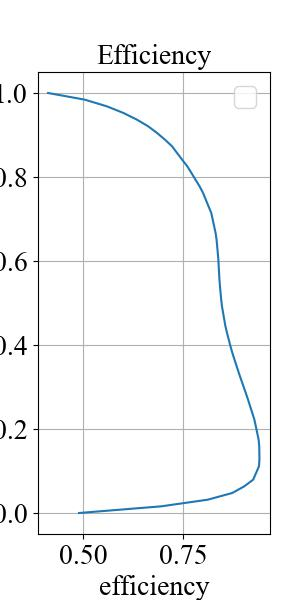
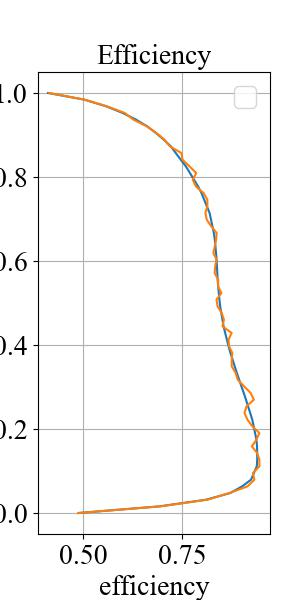
update the data-post to multiple samples

diff --git a/Demo/Rotor37_2d/post_process/post_data.py b/Demo/Rotor37_2d/post_process/post_data.py
@@ -18,10 +18,8 @@ class Post_2d(object):
         else:
             self.inputDict = inputDict
 
-        self.grid_check()
+        self.input_check()
         self.set_basic_const()
-        self.n_1d = self.data_2d.shape[0]
-        self.n_2d = self.data_2d.shape[1]
 
         self._PressureStatic= None
         self._TemperatureStatic = None
@@ -84,16 +82,26 @@ class Post_2d(object):
             # 如果不设置，就对全局进行计算
             shape_index = [np.arange(self.n_1d),np.arange(self.n_2d)]
 
-    def grid_check(self):
+    def input_check(self):
         gridshape = self.grid.shape
         datashape = self.data_2d.shape
 
         if len(gridshape) != 3 or gridshape[2] != 2:
             print("invalid grid input!")
-        if len(gridshape) != 3:
+        if len(gridshape) != 3 and len(gridshape):
             print("invalid data input!")
-        if gridshape[:2] != datashape[:2]:
+        if len(datashape) == 3:
+            self.data_2d = self.data_2d[None, :, :, :]
+            datashape = self.data_2d.shape
+            print("one sample input!")
+        if len(datashape) == 4:
+            self.num = datashape[0]
+            print(str(self.num) + " samples input!")
+        if gridshape[:2] != datashape[1:3]:
             print("dismatch data & grid input!")
+
+        self.n_1d = self.data_2d.shape[1]
+        self.n_2d = self.data_2d.shape[2]
 
     def span_density_average(self, data, shape_index=None, location="outlet"): #输入为2维ndarry
         if len(data.shape)<2:
@@ -123,14 +131,19 @@ class Post_2d(object):
                 return line.split("=")[0].strip()
         return None
 
+    def get_para_from_input(self, parameter):
+        if parameter in self.inputDict.keys():
+            rst = self.data_2d[..., self.inputDict[parameter]]
+        else:
+            eval("rst = self._" + parameter)
+        return rst
+
     #=================================================================================#
 #各类具体参数设置
 
     #===============================================================#
     #基本参数获取：1.静压；2.静温；3.密度；4.速度方向；5.速度大小
-    # ===============================================================#
-
-
+    # ==============================================================#
     def set_PressureStatic(self, x):
         self.PressureStatic = x
     def set_TemperatureStatic(self, x):
@@ -153,27 +166,30 @@ class Post_2d(object):
 
     def get_PressureStatic(self):
         if self._PressureStatic is None:
-            rst = self.data_2d[:,:,self.inputDict["PressureStatic"]]
+            rst = self.data_2d[..., self.inputDict["PressureStatic"]]
             self._PressureStatic = rst
             return rst
         else:
             return self._PressureStatic
     def get_TemperatureStatic(self):
         if self._TemperatureStatic is None:
-            rst = self.data_2d[:,:,self.inputDict["TemperatureStatic"]]
+            rst = self.data_2d[..., self.inputDict["TemperatureStatic"]]
             self._TemperatureStatic = rst
             return rst
         else:
             return self._TemperatureStatic
     def get_Density(self):
         if self._Density is None:
-            return self.data_2d[:,:,self.inputDict["Density"]]
+            if "Density" in self.inputDict.keys():
+                return self.data_2d[..., self.inputDict["Density"]]
+            else:
+                print("Density" + " is not exist")
         else:
             return self._Density
     def get_DensityFlow(self):
         if self._DensityFlow is None:
             if "DensityFlow" in self.inputDict.keys():
-                rst = self.data_2d[:, :, self.inputDict["DensityFlow"]]
+                rst = self.data_2d[..., self.inputDict["DensityFlow"]]
             else:
                 rst = self.Density * self.VelocityX
             self._DensityFlow = rst
@@ -182,21 +198,21 @@ class Post_2d(object):
             return self._DensityFlow
     def get_VelocityX(self):
         if self._VelocityX is None:
-            rst = self.data_2d[:,:,self.inputDict["VelocityX"]]
+            rst = self.data_2d[..., self.inputDict["VelocityX"]]
             self._VelocityX = rst
             return rst
         else:
             return self._VelocityX
     def get_VelocityY(self):
         if self._VelocityY is None:
-            rst = self.data_2d[:,:,self.inputDict["VelocityY"]]
+            rst = self.data_2d[..., self.inputDict["VelocityY"]]
             self._VelocityY = rst
             return rst
         else:
             return self._VelocityY
     def get_VelocityZ(self):
         if self._VelocityZ is None:
-            rst = np.zeros([self.n_1d,self.n_2d])
+            rst = np.zeros([self.num, self.n_1d, self.n_2d])
             self._VelocityZ = rst
             return rst
         else:
@@ -244,7 +260,7 @@ class Post_2d(object):
     def get_Uaxis(self):
         if self._Uaxis is None:
             rst = self.rotateSpeed * 2 * np.pi /60
-            rst = self.grid[:,:,1] * rst
+            rst = np.tile(self.grid[None, :, :, 1], [self.num, 1, 1]) * rst
             self._Uaxis = rst
             return rst
         else:
@@ -349,14 +365,14 @@ class Post_2d(object):
             return self._TemperatureTotalV
     def get_PressureRatioV(self):
         if self._PressureRatioV is None:
-            rst = self.PressureTotalV / np.tile(self.PressureTotalV[:, 0], [self.n_1d, 1])
+            rst = self.PressureTotalV / np.tile(self.PressureTotalV[..., :1], [1, 1, self.n_1d])
             self._PressureRatioV = rst
             return rst
         else:
             return self._PressureRatioV
     def get_TemperatureRatioV(self):
         if self._TemperatureRatioV is None:
-            rst = self.TemperatureTotalV / np.tile(self.TemperatureTotalV[:, 0], [self.n_1d, 1])
+            rst = self.TemperatureTotalV / np.tile(self.TemperatureTotalV[..., :1], [1, 1, self.n_1d])
             self._TemperatureRatioV = rst
             return rst
         else:
@@ -386,14 +402,14 @@ class Post_2d(object):
             return self._TemperatureTotalW
     def get_PressureRatioW(self):
         if self._PressureRatioW is None:
-            rst = self.PressureTotalW / np.tile(self.PressureTotalW[:, 0], [self.n_1d, 1])
+            rst = self.PressureTotalW / np.tile(self.PressureTotalW[...,  :1], [1, 1, self.n_1d])
             self._PressureRatioW = rst
             return rst
         else:
             return self._PressureRatioW
     def get_TemperatureRatioW(self):
         if self._TemperatureRatioW is None:
-            rst = self.TemperatureTotalW / np.tile(self.TemperatureTotalW[:, 0], [self.n_1d, 1])
+            rst = self.TemperatureTotalW / np.tile(self.TemperatureTotalW[...,  :1], [1, 1, self.n_1d])
             self._TemperatureRatioW = rst
             return rst
         else:
@@ -401,9 +417,9 @@ class Post_2d(object):
     def get_Efficiency(self):
         if self._Efficiency is None:
             num = int(np.round(self.n_2d / 2))
-            rst = np.abs(np.power(self.PressureRatioV[:, num:], (self.kappa - 1) / self.kappa) - 1) + 1e-5
-            rst = rst / (np.abs(self.TemperatureRatioV[:, num:] - 1) + 1e-5)
-            rst = np.concatenate((np.zeros([self.n_1d, num]), rst), axis=1)
+            rst = np.abs(np.power(self.PressureRatioV[..., num:], (self.kappa - 1) / self.kappa) - 1) + 1e-5
+            rst = rst / (np.abs(self.TemperatureRatioV[..., num:] - 1) + 1e-5)
+            rst = np.concatenate((np.zeros([self.num, self.n_1d, num]), rst), axis=2)
             self._Efficiency = rst
             return rst
         else:
@@ -419,7 +435,7 @@ class Post_2d(object):
     def get_PressureLoss(self):
         if self._PressureLoss is None:
             rst = self.PressureRatioV - 1
-            rst = rst / (1 - np.tile(self.PressureStatic[:, 0] / self.PressureTotalV[:, 0], [self.n_1d, 1]))
+            rst = rst / (1 - np.tile(self.PressureStatic[...,  :1] / self.PressureTotalV[...,  :1], [1, 1, self.n_1d]))
             self._PressureLoss = rst
             return rst
         else:
@@ -428,16 +444,16 @@ class Post_2d(object):
     def get_PressureLossR(self):
         if self._PressureLossR is None:
             rst = 1 - self.PressureRatioW
-            rst = rst / (1 - np.tile(self.PressureStatic[:, 0] / self.PressureTotalW[:, 0], [self.n_1d, 1]))
+            rst = rst / (1 - np.tile(self.PressureStatic[...,  :1] / self.PressureTotalW[...,  :1], [1, 1, self.n_1d]))
             self._PressureLossR = rst
             return rst
         else:
             return self._PressureLoss
     def get_DFactor(self):
         if self._DFactor is None:
-            rst = self.VelocityY - np.tile(self.VelocityY[:, 0], [self.n_1d, 1])  # delta V theta 周向速度差
-            rst = 0.5 * rst / np.tile(self.MagV[:, 0], [self.n_1d, 1]) / self.sigma
-            rst = rst + 1 - self.MagV / np.tile(self.MagV[:, 0], [self.n_1d, 1])
+            rst = self.VelocityY - np.tile(self.VelocityY[...,  :1], [1, 1, self.n_1d])  # delta V theta 周向速度差
+            rst = 0.5 * rst / np.tile(self.MagV[...,  :1], [1, 1, self.n_1d]) / self.sigma
+            rst = rst + 1 - self.MagV / np.tile(self.MagV[...,  :1], [1, 1, self.n_1d])
             self._DFactor = rst
             return rst
         else:
@@ -445,9 +461,9 @@ class Post_2d(object):
 
     def get_DFactorR(self):
         if self._DFactorR is None:
-            rst = self.WelocityY - np.tile(self.WelocityY[:, 0], [self.n_1d, 1])  # delta V theta 周向速度差
-            rst = 0.5 * rst / np.tile(self.MagW[:, 0], [self.n_1d, 1]) / self.sigma
-            rst = rst + 1 - self.MagW / np.tile(self.MagW[:, 0], [self.n_1d, 1])
+            rst = self.WelocityY - np.tile(self.WelocityY[...,  :1], [1, 1, self.n_1d])  # delta V theta 周向速度差
+            rst = 0.5 * rst / np.tile(self.MagW[...,  :1], [1, 1, self.n_1d]) / self.sigma
+            rst = rst + 1 - self.MagW / np.tile(self.MagW[...,  :1], [1, 1, self.n_1d])
             self._DFactorR = rst
             return rst
         else:

diff --git a/Demo/Rotor37_2d/post_process/draw_figure.py b/Demo/Rotor37_2d/post_process/draw_figure.py
@@ -31,8 +31,10 @@ def plot_span_curve(post, parameterList, save_path = None, fig_id = 0, label = N
     for parameter_Name in parameterList:
         fig, axs = plt.subplots(1, 1, figsize=(3, 6), num=1)
         value_span = getattr(post, parameter_Name)
-        Visual.plot_value(fig, axs, value_span[:, -1], np.linspace(0,1,post.n_1d), label=label,
-                          title=parameter_Name, xylabels=("efficiency", "span"))
+
+        for ii in range(post.num):
+            Visual.plot_value(fig, axs, value_span[ii, :, -1], np.linspace(0,1,post.n_1d), label=label,
+                              title=parameter_Name, xylabels=("efficiency", "span"))
 
         if save_path is None:
             jpg_path = os.path.join(work_path, parameter_Name + "_" + str(fig_id) + '.jpg')
@@ -54,9 +56,10 @@ if __name__ == "__main__":
                                     # 'Entropy'
                                     ])
     # design, fields = get_origin()
-
+    output2 = output + np.random.rand(64,64,7)
     ii = 0
-    post = Post_2d(output[:,:,:],grid,
+    post = Post_2d(np.concatenate((output[None,:,:,:],output2[None,:,:,:]), axis=0),
+                   grid,
                    inputDict = {
                         "PressureStatic" : 0,
                         "TemperatureStatic" : 1,
